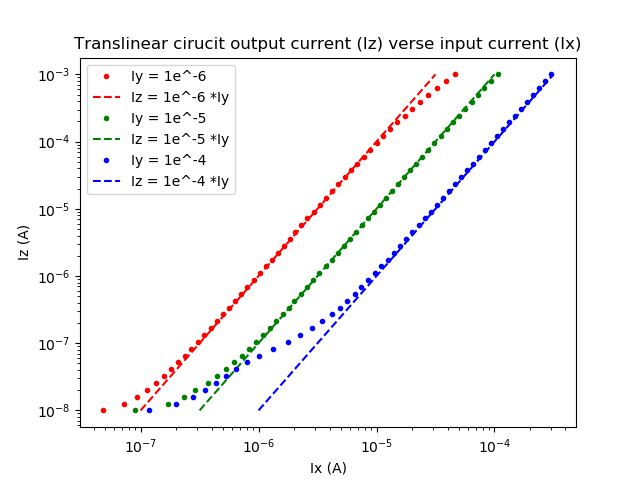
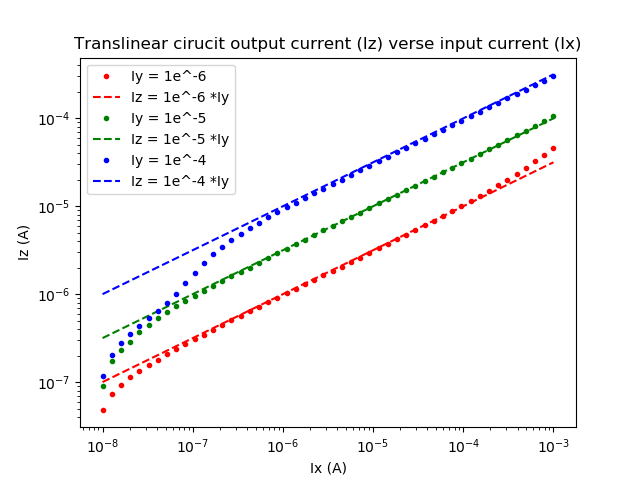
fixed lab 4

diff --git a/lab 4/Exp2_Sink.py b/lab 4/Exp2_Sink.py
@@ -75,12 +75,12 @@ xLabel = "Ix (A)"
 
 # Plotting Data
 
-Data1 = plt.loglog(I_z1, I_x1, 'ro', markersize=3, label="Iy = 1e^-6")
-Data2 = plt.loglog(Theo_Z1, I_x1, 'r--', markersize=3, label="Iz = 1e^-6 *Iy")
-Data3 = plt.loglog(I_z2, I_x2, 'go', markersize=3, label="Iy = 1e^-5")
-Data4 = plt.loglog(Theo_Z2, I_x2, 'g--', markersize=3, label="Iz = 1e^-5 *Iy")
-Data5 = plt.loglog(I_z3, I_x3, 'bo', markersize=3, label="Iy = 1e^-4")
-Data6 = plt.loglog(Theo_Z3, I_x3, 'b--', markersize=3, label="Iz = 1e^-4 *Iy")
+Data1 = plt.loglog(I_x1,I_z1, 'ro', markersize=3, label="Iy = 1e^-6")
+Data2 = plt.loglog(I_x1, Theo_Z1, 'r--', markersize=3, label="Iz = 1e^-6 *Iy")
+Data3 = plt.loglog(I_x2, I_z2,  'go', markersize=3, label="Iy = 1e^-5")
+Data4 = plt.loglog(I_x2, Theo_Z2, 'g--', markersize=3, label="Iz = 1e^-5 *Iy")
+Data5 = plt.loglog(I_x3, I_z3,'bo', markersize=3, label="Iy = 1e^-4")
+Data6 = plt.loglog( I_x3, Theo_Z3, 'b--', markersize=3, label="Iz = 1e^-4 *Iy")
 
 plt.xlabel(xLabel)
 plt.ylabel(yLabel)

diff --git a/lab 4/Exp2_Source.py b/lab 4/Exp2_Source.py
@@ -73,12 +73,12 @@ xLabel = "Iy (A)"
 
 # Plotting Data
 
-Data1 = plt.loglog(I_z1, I_y1, 'ro', markersize=3, label="Ix = 1e^-6")
-Data2 = plt.loglog(Theo_Z1, I_y1, 'r--', markersize=3, label="Iz = 1e^-6 *Ix")
-Data3 = plt.loglog(I_z2, I_y2, 'go', markersize=3, label="Ix = 1e^-5")
-Data4 = plt.loglog(Theo_Z2, I_y2, 'g--', markersize=3, label="Iz = 1e^-5 *Ix")
-Data5 = plt.loglog(I_z3, I_y3, 'bo', markersize=3, label="Ix = 1e^-4")
-Data6 = plt.loglog(Theo_Z3, I_y3, 'b--', markersize=3, label="Iz = 1e^-4 *Ix")
+Data1 = plt.loglog(I_y1, I_z1, 'ro', markersize=3, label="Ix = 1e^-6")
+Data2 = plt.loglog(I_y1, Theo_Z1, 'r--', markersize=3, label="Iz = 1e^-6 *Ix")
+Data3 = plt.loglog(I_y2, I_z2,'go', markersize=3, label="Ix = 1e^-5")
+Data4 = plt.loglog(I_y2, Theo_Z2, 'g--', markersize=3, label="Iz = 1e^-5 *Ix")
+Data5 = plt.loglog(I_y3, I_z3, 'bo', markersize=3, label="Ix = 1e^-4")
+Data6 = plt.loglog(I_y3, Theo_Z3,'b--', markersize=3, label="Iz = 1e^-4 *Ix")
 
 plt.xlabel(xLabel)
 plt.ylabel(yLabel)

diff --git a/lab 4/exp1/bvsIb.py b/lab 4/exp1/bvsIb.py
@@ -18,11 +18,14 @@ Ib3 = []
 Ib4 = []
 
 
-print(beta1)
-
+i = 0
 for x in Exp1_Ib:
     I_bVal = float(x)
-    Ib1.append(I_bVal)
+    if(i == 6):
+        Ib1.append(-1.6e-10)
+    else:
+        Ib1.append(I_bVal)
+    i+=1
 
 for x in Exp2_Ib:
     I_bVal = float(x)
@@ -54,4 +57,6 @@ if __name__ == '__main__':
     plt.title(title)
     loc = plticker.MultipleLocator(base=100) # this locator puts ticks at regular intervals
     plt.grid(True)
+    plt.ylim((-100,20000))
+    plt.savefig('BataVIb.png', format='png')
     plt.show()

diff --git a/lab 4/exp32.py b/lab 4/exp32.py
@@ -61,6 +61,8 @@ if __name__ == '__main__':
 
 
     plt.legend()
+    plt.ylim(10e-8, 10e-2)
+    plt.savefig('Exp3_Source.png', format='png')
     plt.xlabel(xLabel)
     plt.ylabel(yLabel)
     plt.title(title)

diff --git a/lab 4/exp3.py b/lab 4/exp3.py
@@ -67,6 +67,8 @@ if __name__ == '__main__':
 
 
     plt.legend()
+    plt.ylim(10e-8, 10e-2)
+    plt.savefig('Exp3_Sink.png', format='png')
     plt.xlabel(xLabel)
     plt.ylabel(yLabel)
     plt.title(title)
